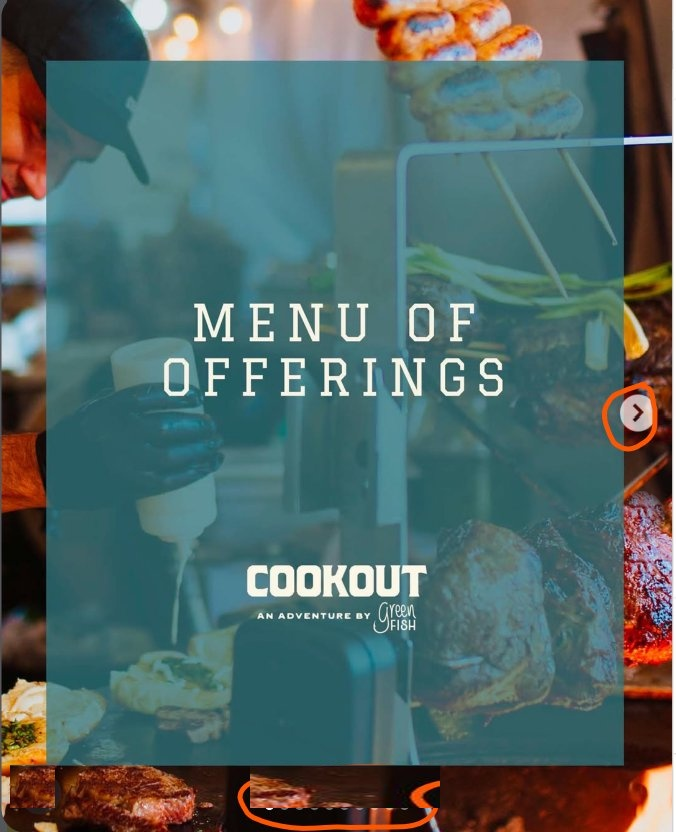
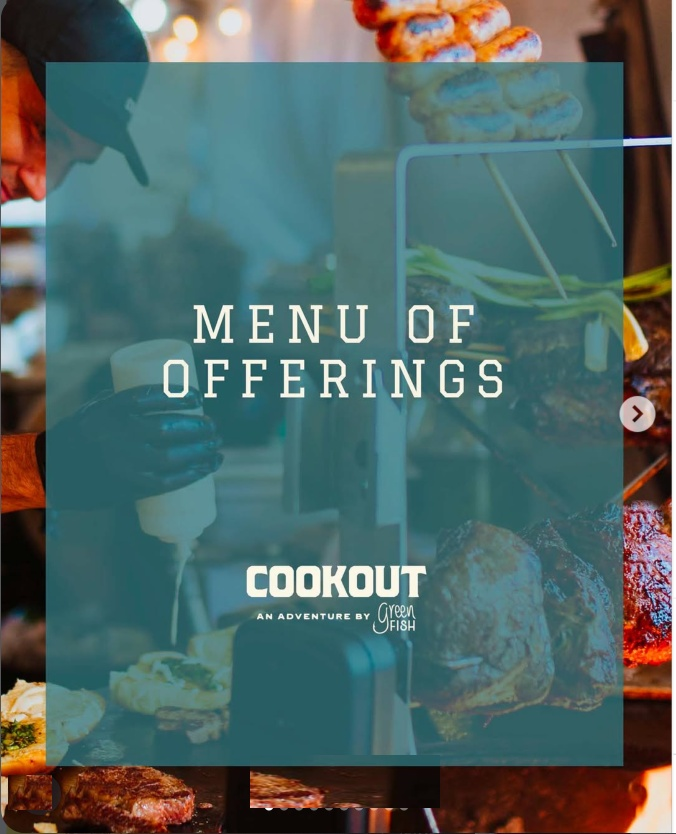
feat: updated clean og cover directly from clean image source

diff --git a/index.html b/index.html
@@ -15,20 +15,20 @@
     <meta property="og:site_name" content="COOKOUT Aruba" />
     <meta property="og:url" content="https://cookout.nico-family.com/" />
     <meta property="og:title" content="COOKOUT Aruba | Official Menu • Beach Tennis Aruba Open 2026" />
-    <meta property="og:description" content="Official Beach Tennis Aruba Open 2026 Food Pop-Up at Bushiri Beach. Pit-fire grill, smash burgers, prime ribeye steaks, fresh catch & raw bar by Green Fish." />
-    <meta property="og:image" content="https://res.cloudinary.com/domyogu15/image/upload/v1794233933/nalu_food/covers/cookout_bta_2026_cover.jpg" />
-    <meta property="og:image:secure_url" content="https://res.cloudinary.com/domyogu15/image/upload/v1794233933/nalu_food/covers/cookout_bta_2026_cover.jpg" />
+    <meta property="og:description" content="Official Beach Tennis Aruba Open 2026 Food Pop-Up at Bushiri Beach. Pit-fire grill, smash burgers, prime ribeye steaks, fresh catch &amp; raw bar by Green Fish." />
+    <meta property="og:image" content="https://res.cloudinary.com/domyogu15/image/upload/v1794234260/nalu_food/covers/cookout_bta_2026_cover.jpg" />
+    <meta property="og:image:secure_url" content="https://res.cloudinary.com/domyogu15/image/upload/v1794234260/nalu_food/covers/cookout_bta_2026_cover.jpg" />
     <meta property="og:image:type" content="image/jpeg" />
     <meta property="og:image:width" content="676" />
-    <meta property="og:image:height" content="832" />
-    <meta property="og:image:alt" content="COOKOUT Aruba - Menu of Offerings - Beach Tennis Aruba 2026" />
+    <meta property="og:image:height" content="834" />
+    <meta property="og:image:alt" content="COOKOUT Aruba - Menu of Offerings - Beach Tennis Aruba Open 2026" />
     <meta property="og:locale" content="en_US" />
 
     <!-- Twitter Card -->
     <meta name="twitter:card" content="summary_large_image" />
     <meta name="twitter:title" content="COOKOUT Aruba | Official Menu • Beach Tennis Aruba Open 2026" />
-    <meta name="twitter:description" content="Official Food Pop-Up for Beach Tennis Aruba Open 2026 at Bushiri Beach. Pit-fire grill & raw bar by Green Fish." />
-    <meta name="twitter:image" content="https://res.cloudinary.com/domyogu15/image/upload/v1794233933/nalu_food/covers/cookout_bta_2026_cover.jpg" />
+    <meta name="twitter:description" content="Official Food Pop-Up for Beach Tennis Aruba Open 2026 at Bushiri Beach. Pit-fire grill &amp; raw bar by Green Fish." />
+    <meta name="twitter:image" content="https://res.cloudinary.com/domyogu15/image/upload/v1794234260/nalu_food/covers/cookout_bta_2026_cover.jpg" />
 
     <!-- Google Fonts: Bebas Neue, Outfit & Plus Jakarta Sans -->
     <link rel="preconnect" href="https://fonts.googleapis.com" />

diff --git a/src/hooks/useStructuredData.ts b/src/hooks/useStructuredData.ts
@@ -24,7 +24,7 @@ export function useStructuredData(
             '@type': 'Restaurant',
             '@id': 'https://cookout.nico-family.com/#restaurant',
             name: 'COOKOUT Aruba',
-            image: 'https://res.cloudinary.com/domyogu15/image/upload/v1794233933/nalu_food/covers/cookout_bta_2026_cover.jpg',
+            image: 'https://res.cloudinary.com/domyogu15/image/upload/v1794234260/nalu_food/covers/cookout_bta_2026_cover.jpg',
             telephone: tenant.telefono,
             email: tenant.email,
             address: {
